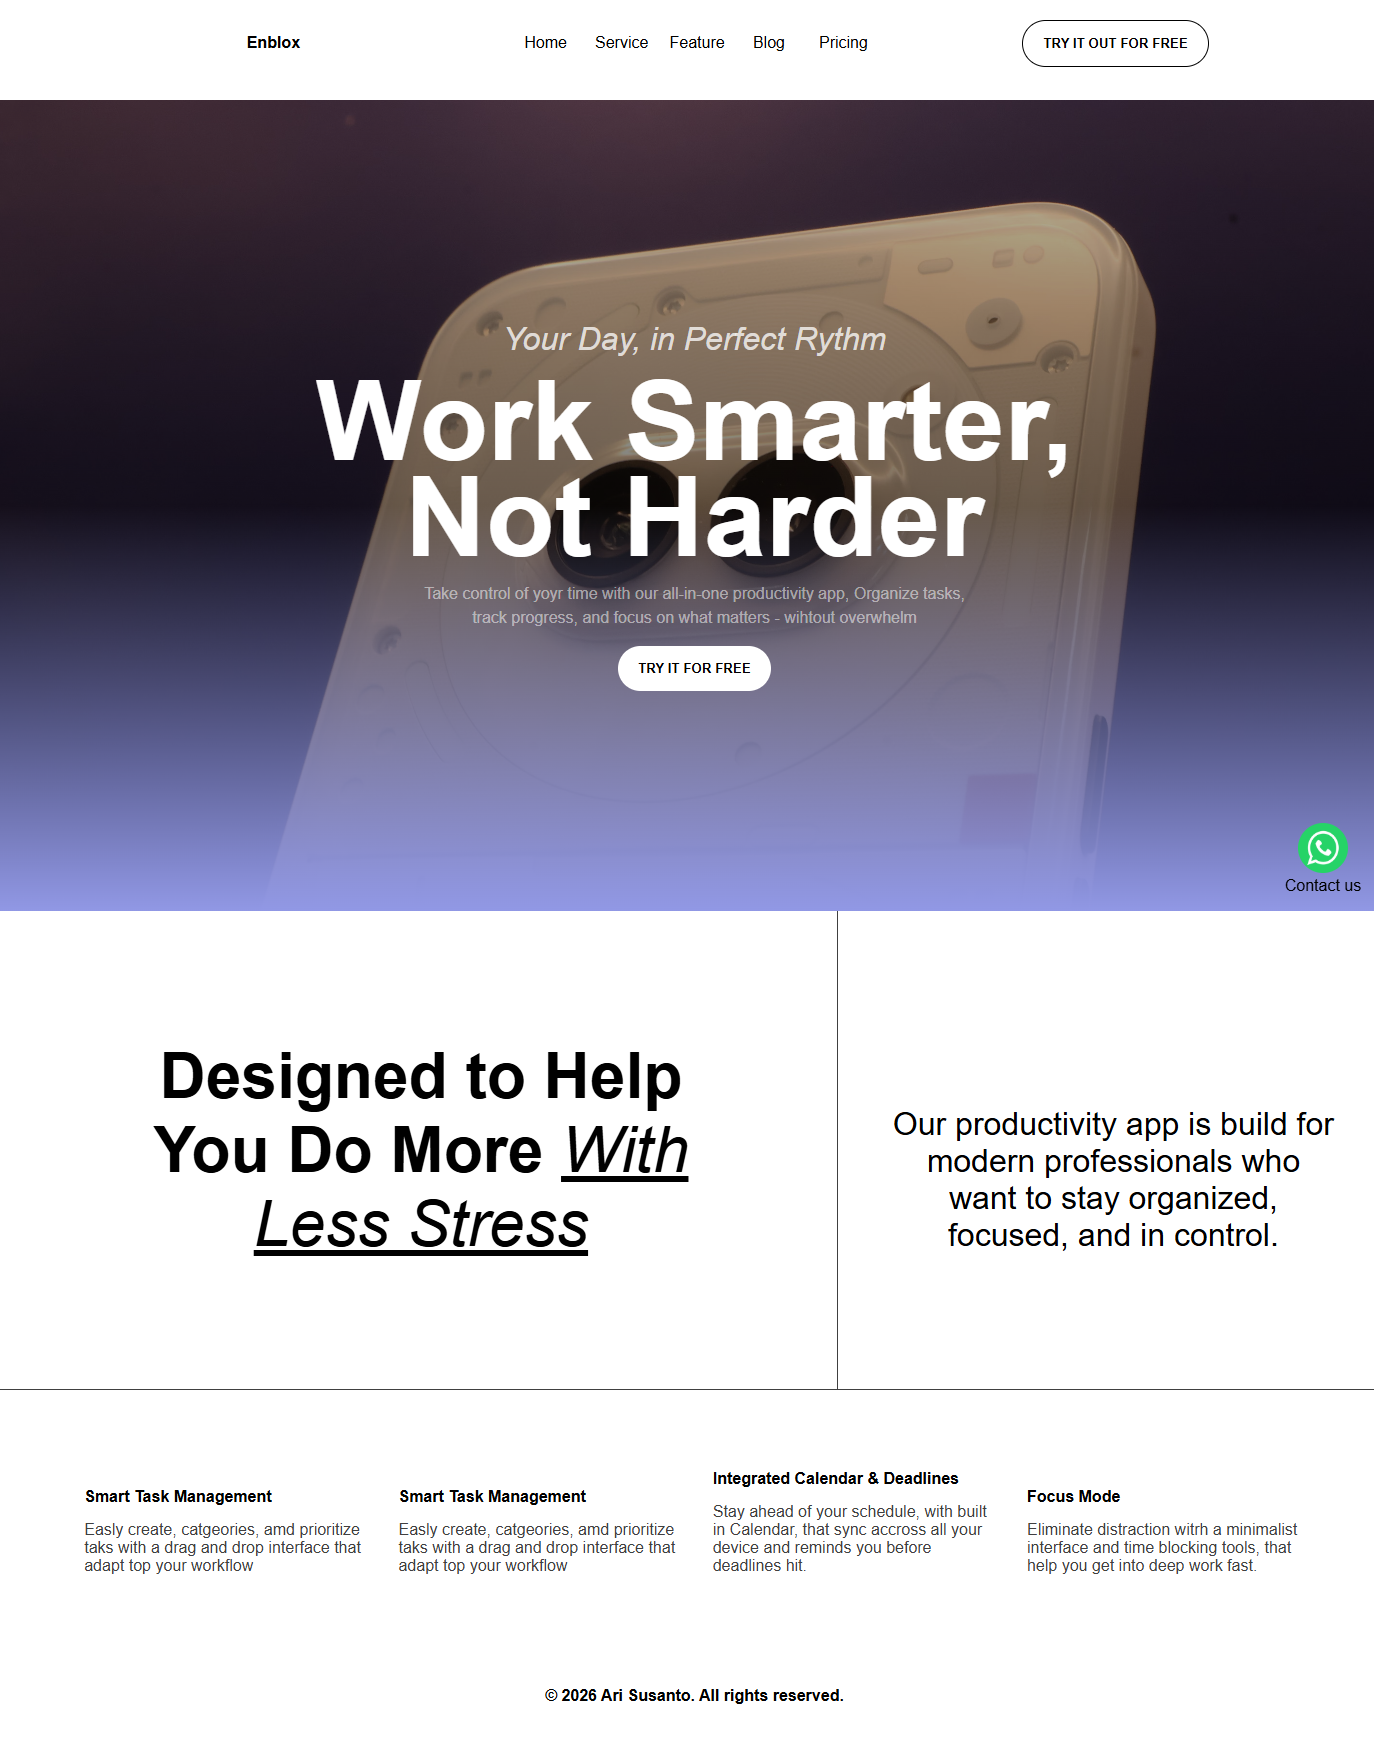
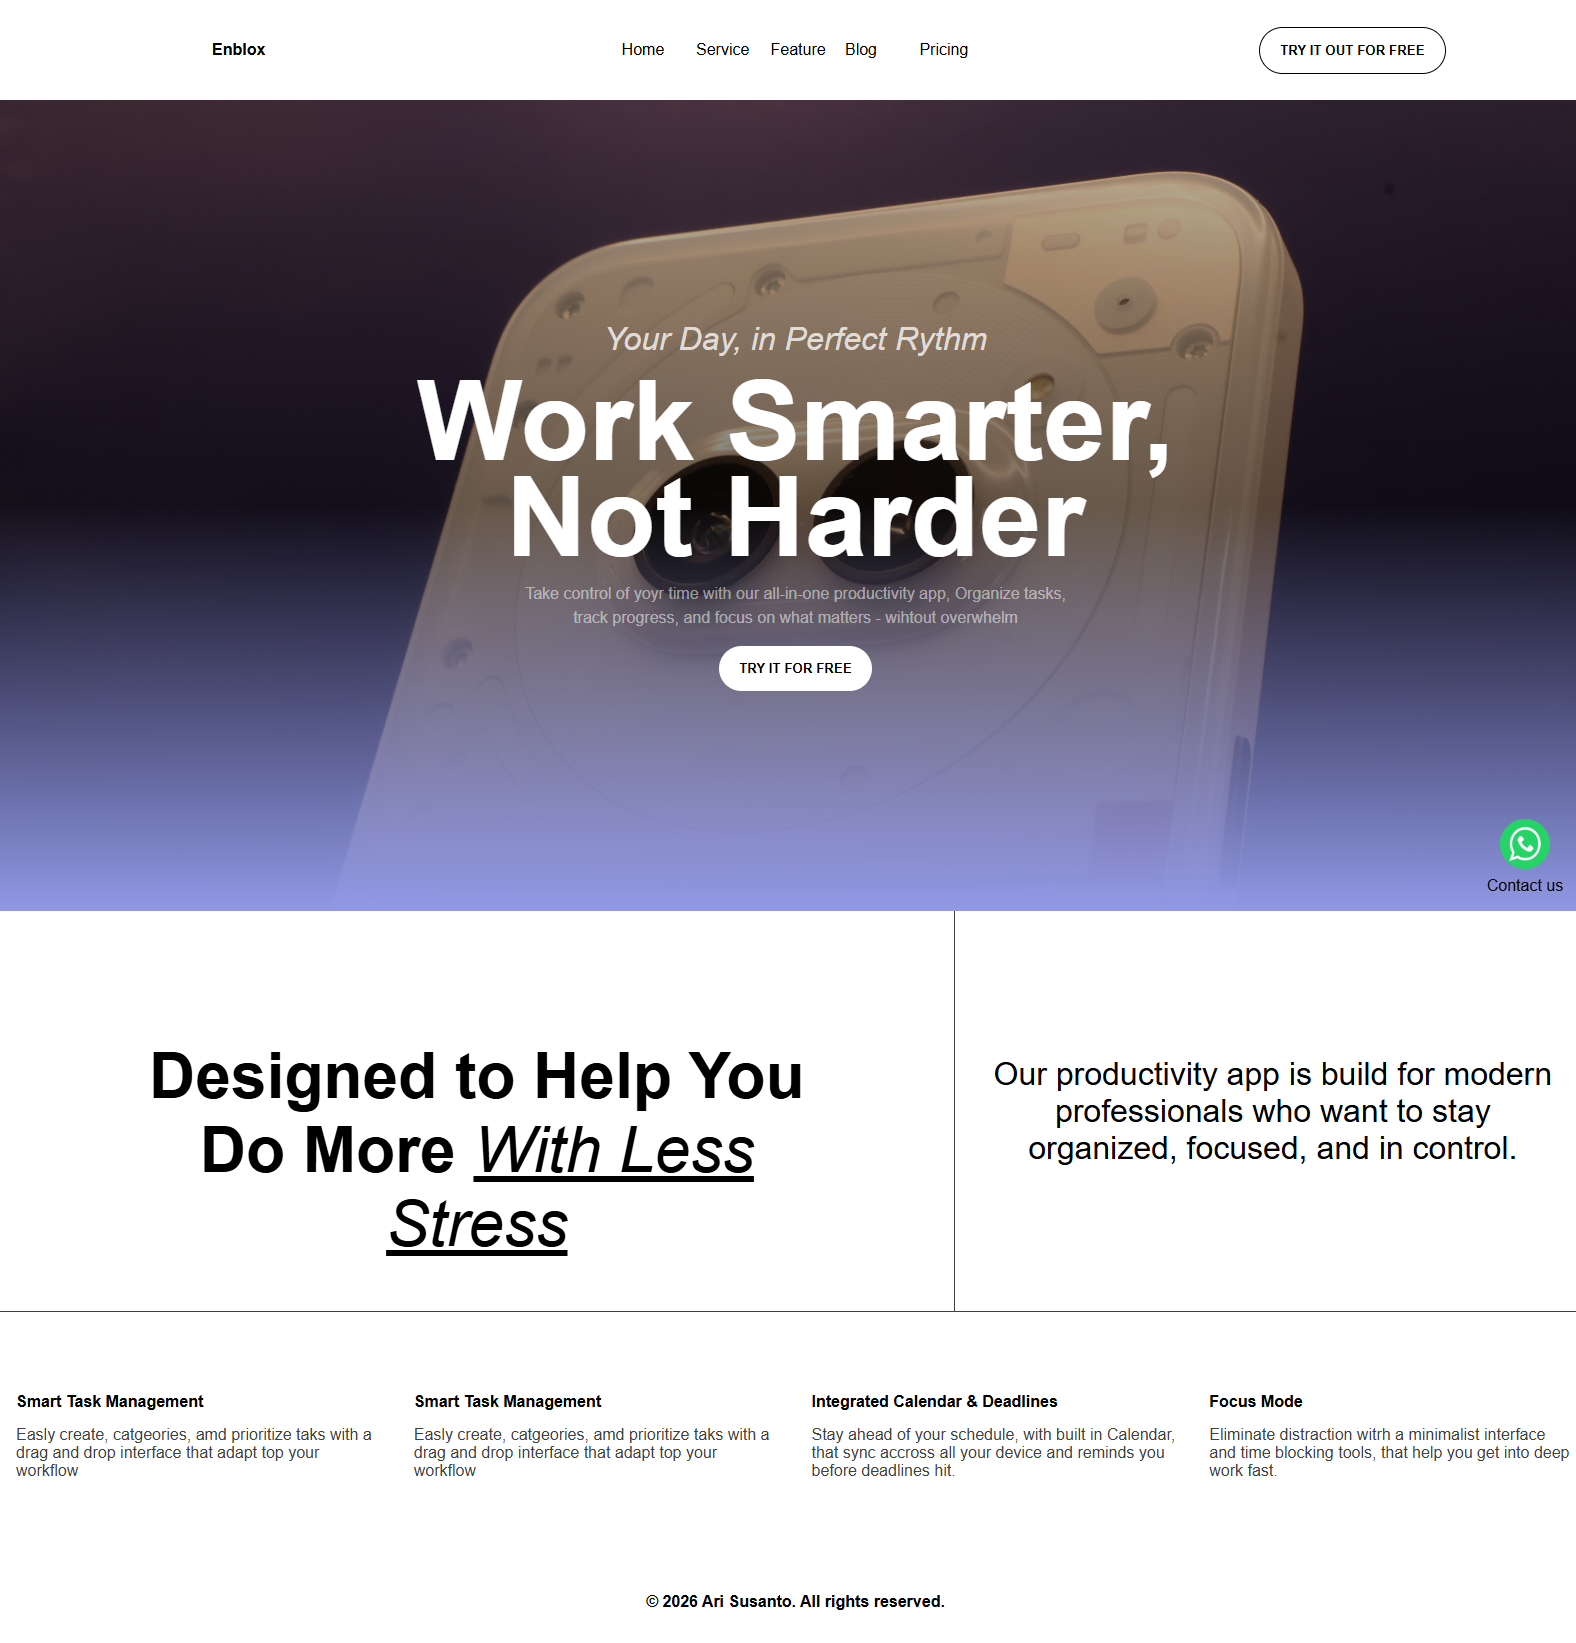
docs: update readme to describe new changes and show the results

diff --git a/index.html b/index.html
@@ -46,6 +46,7 @@
     </header>
 
     <main>
+        
         <div>
             <div>
                 <h1>
@@ -60,8 +61,8 @@
                 </p>
             </div>
         </div>
-        <div>
 
+        <div>
             <div>
                 <span>Smart Task Management</span>
                 <p>

diff --git a/README.md b/README.md
@@ -2,5 +2,13 @@
 on this repo i learn to create a simple landing page web by reference
 and i need to use external css without flex or grid layout and only using default div element display which is `block` and for the childern using `inline-block`, i also need to add a simpel floating button which will forward me to my owen whatsapp number heres the result of what i am learning today
 
+## Update Refactor
+now i can use the grid and flex display layout,
+and below is the current result 
 
-![result image](result.png)
+
+### result
+![result](result.png)
+
+### old result
+![old result image](old-result.png)
